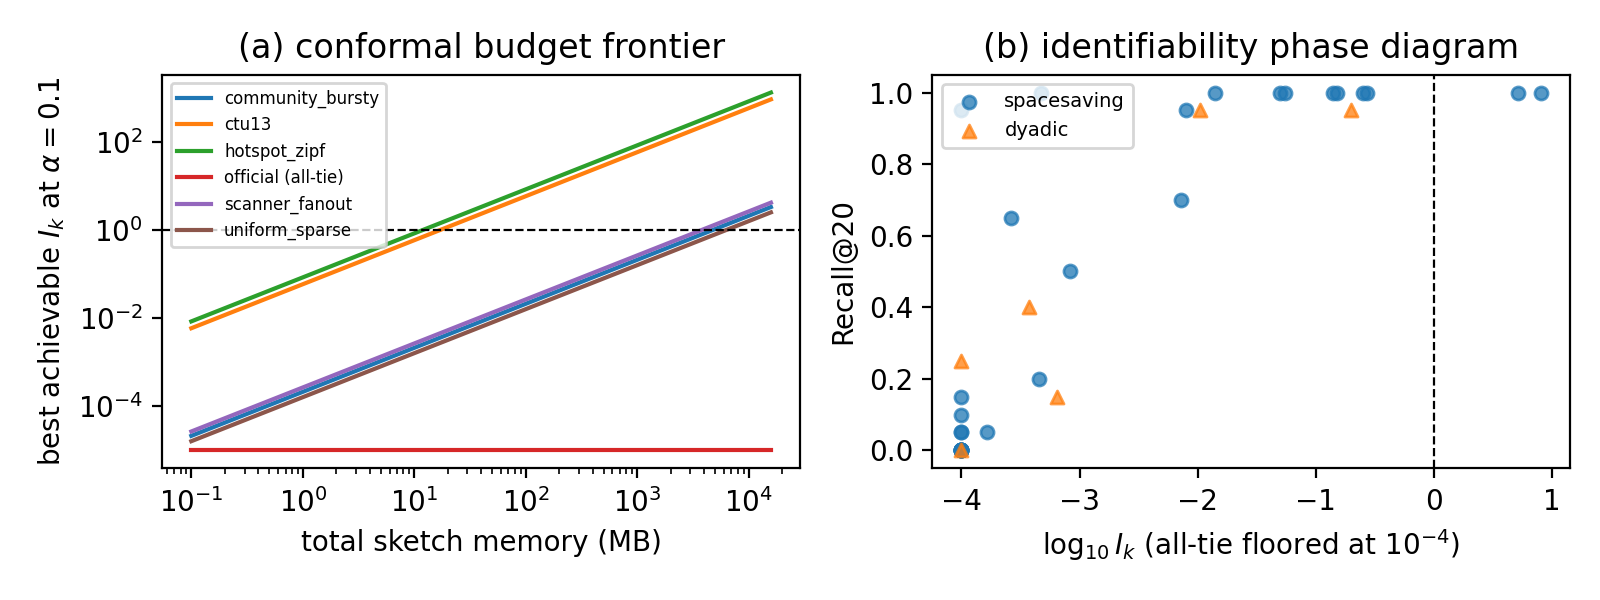
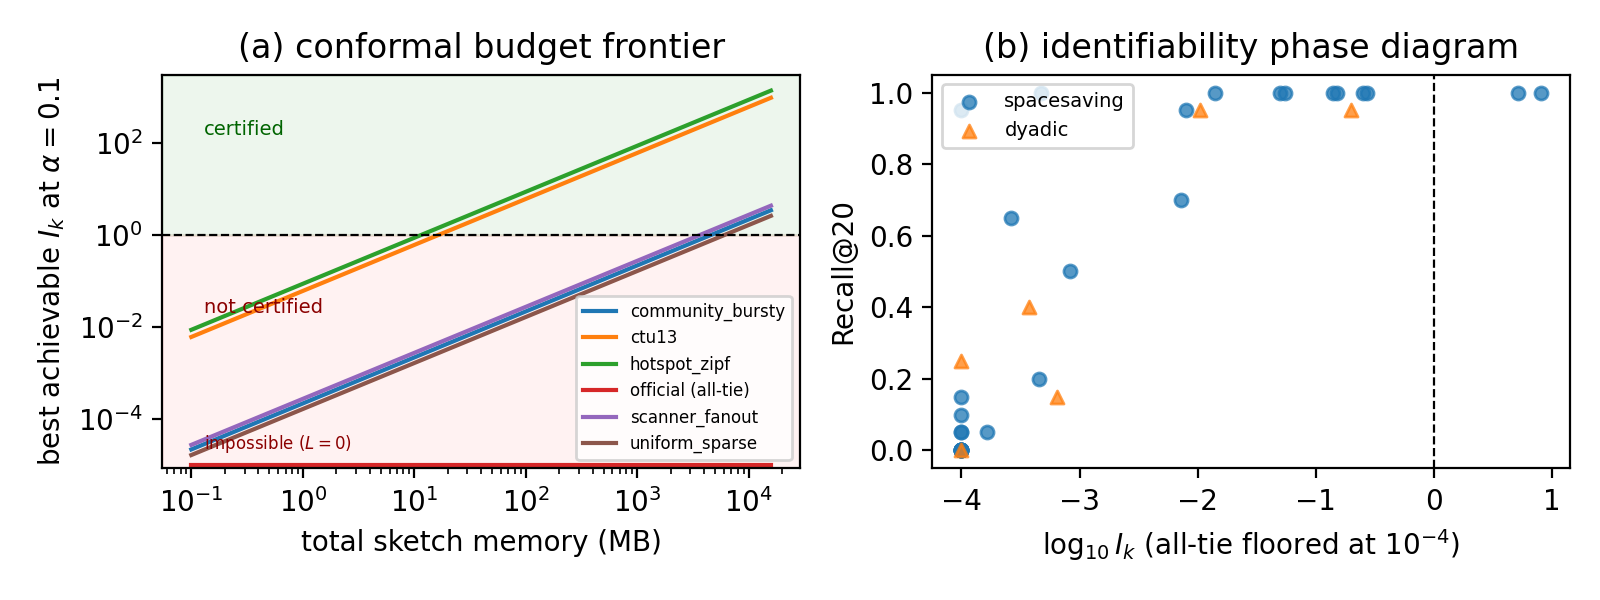
paper: narrative refactor per senior-reviewer advice — unidentifiability first, three contributions, I_k as organizing principle
- Abstract opens with the conceptual shift: 'Some traffic streams are
  fundamentally unidentifiable' + explicit old/new boundary ('existing
  sketches estimate; we ask whether identifiable at all').
- Introduction restructured: problem -> why estimators are insufficient ->
  three contributions exactly (identifiability index, conformal screens,
  budget pricing); router/GraphBLAS/toolkit demoted to deployment and
  evidence; phase-diagram soundness sentence kept.
- Sec IV retitled 'Top-k Identifiability and its Certificates' with a
  roadmap sentence deriving everything from I_k; gap-share conformity
  score justified (pivot of the decision inequality, deployment-
  observable, monotone-equivalent alternatives); Proposition 2 added:
  pricing objective strictly convex on its domain (convex-decreasing o
  concave), unique optimum, price monotone in L — verified numerically
  in tests.
- Router reframed as 'Deployment: the certified router'; Algorithm 2
  naming dropped.
- Related work: UnivMon + ElasticSketch cited with the orthogonality
  sentence; 'toolkit' framing swept to 'certification framework
  implemented on commodity hardware'.
- Figure panel (a) gains certified / not-certified / impossible bands.
- Six pages; 36 tests.

diff --git a/paper/main.tex b/paper/main.tex
@@ -18,21 +18,18 @@ qifan\[email redacted]}
 \maketitle
 
 \begin{abstract}
-The MIT/IEEE/Amazon GraphChallenge Anonymized Network Sensing track asks participants to construct and analyze anonymized source-to-destination traffic matrices from packet-derived data. We present a commodity-CPU toolkit whose core method is certified, memory-priced identifiability for sketch-based heavy-hitter sensing: decide whether top-$k$ heavy hitters are identifiable under a sketch memory budget; if so certify it, and if not, price the memory required or declare the task unidentifiable. The method builds on an empirical finding with a sparse-recovery explanation -- candidate-tracking capacity, not Count-Min width, bounds discovery on diffuse traffic, a gradient two decoder families reproduce -- and on \emph{conformal identifiability screens}: window-level calibration lower-bounds future ranking gaps under exchangeability, replacing single-prefix representativeness with finite-sample marginal coverage (adaptive conformal inference empirically restores target miscoverage under the tested drift settings). The pricing algorithm refuses a 655~KB budget a single-prefix screen had accepted, prices certification at 11.7~MB on a synthetic hotspot regime and 16.8~MB on real CTU-13 traffic -- with measured recall 1.0 at the priced budgets -- and declares the all-tie official Random PCAP unidentifiable, where a budget-matched identifiability-aware recall replaces a misleading zero. A certified router composes these components into one operational decision per stream: exact path, sketch certification with its price, backend, and safe fallbacks, abstaining when its signals disagree. We validate against the official challenge products: 40{,}000{,}000 packets parsed in seconds and official GraphBLAS matrices reproduced exactly (64 of 64 windows). The contribution is not full-capture throughput, but a reproducible bridge between official GraphChallenge materials and certified commodity sparse-matrix experimentation.
+Some traffic streams are fundamentally unidentifiable: when aggregated edge weights tie at the top-$k$ boundary, no sketch of any width can answer strict top-$k$ queries. Existing sketches estimate heavy hitters; we ask whether heavy hitters are identifiable at all under a given memory budget -- certifying it when they are, pricing the memory required when they are not yet, and declaring impossibility when they never can be. The framework, developed for GraphChallenge Anonymized Network Sensing and implemented on commodity hardware, rests on three contributions: (1) a \emph{top-$k$ identifiability index} $I_k$ that unifies traffic shape, Count-Min width, and candidate capacity into one certifying quantity -- explaining, via a sparse-recovery reading, why capacity rather than width bounds discovery on diffuse traffic, a gradient two decoder families reproduce; (2) \emph{conformal identifiability screens} that lower-bound future-window ranking gaps under exchangeability, replacing single-prefix representativeness with finite-sample marginal coverage; and (3) a \emph{budget-pricing algorithm}, provably convex and monotone, that outputs the memory-minimal certified sketch. Empirically, the conformal screen refuses a 655~KB budget a single-prefix screen had accepted; pricing returns 11.7~MB for a synthetic hotspot regime and 16.8~MB for real CTU-13 traffic (measured recall 1.0 at both), and declares the all-tie official Random PCAP unidentifiable, where an identifiability-aware recall replaces a misleading zero. A certified router deploys the framework as one decision per stream, validated against the official products: 40{,}000{,}000 packets parsed in seconds and official GraphBLAS matrices reproduced exactly (64 of 64 windows).
 \end{abstract}
 
 \section{Introduction}
-The Anonymized Network Sensing Graph Challenge frames packet-derived records as sparse source-to-destination traffic matrices for graph and linear-algebra analysis~\cite{anonymizedNetworkSensing2024}; submissions are paper-based and reward measured innovation across software, hardware, algorithms, and systems~\cite{graphchallenge2026,graphchallengeSubmit2026}. This submission targets a complementary point in that design space: not maximum throughput, but a reproducible, low-dependency baseline that makes traffic-shape dependence and approximation risk measurable -- and certifiable.
+The Anonymized Network Sensing Graph Challenge frames packet-derived records as sparse source-to-destination traffic matrices for graph and linear-algebra analysis~\cite{anonymizedNetworkSensing2024}; submissions are paper-based and reward measured innovation across software, hardware, algorithms, and systems~\cite{graphchallenge2026,graphchallengeSubmit2026}. Operators want sketches for this task -- bounded memory, one pass -- but sketches estimate weights; they do not say whether the top-$k$ \emph{identity} they report is meaningful. On diffuse traffic the answer degrades quietly, and on all-tie traffic (including the official Random PCAP product) it carries no information at any width. What is missing is not a better estimator but a decision: is top-$k$ identity recoverable here, under this memory budget, and if not, at what budget -- or never?
 
-To be explicit about what kind of paper this is: it is a diagnostics-and-certification contribution, not a performance record. The central empirical finding is that candidate-tracking capacity, not Count-Min sketch width, bounds heavy-hitter discovery on diffuse traffic; a sparse-recovery reading (width buys measurements, capacity buys decoding) explains it and predicts that it is decoder-independent, which we verify. The contributions are layered around that finding. The \emph{certification layer} -- the primary contribution -- turns traffic-shape measurements into guarantees: a sufficient-condition sketch-safety screen with a SpaceSaving retention bound that quantitatively predicts the required capacity, a single identifiability index $I_k$ with a budget-matched identifiability-aware recall metric, \emph{conformal identifiability screens} that replace the prefix-representativeness assumption with finite-sample marginal coverage over stream windows (adaptive conformal inference empirically restores target miscoverage under the tested drift settings), and a \emph{budget-pricing algorithm} that outputs the memory-minimal certified sketch configuration or declares the stream unidentifiable. The \emph{validation layer} supports the diagnostics with multi-regime synthetic benchmarks over equivalence-checked exact baselines, a real capture (CTU-13), official Random PCAP prefixes, an exact cross-check against the official GraphBLAS matrices, and a SuiteSparse:GraphBLAS baseline. The \emph{toolkit layer} -- capability, not headline -- adds an early-stream selector, time-bin anomaly summaries, format checks, and scripts regenerating every table and figure here. All components compose into a \emph{certified router} (Algorithm 2), and the central experimental artifact is the identifiability phase diagram of Figure~\ref{fig:pricing}: across sources, budgets, and two decoder families, no certified point ($I_k\geq1$) has low recall.
+This paper answers that question with three contributions, in increasing order of assumption strength. First, the \emph{top-$k$ identifiability index} $I_k$: one dimensionless quantity unifying the traffic's ranking gap with the two halves of the memory budget (Count-Min width buys measurement precision; candidate capacity buys decoding, in the sparse-recovery sense); $I_k\geq1$ certifies retention and separation, its retention bound predicts the capacity our sweeps confirm, and it induces a budget-matched recall metric. Second, \emph{conformal identifiability screens}: window-level calibration lower-bounds future ranking gaps under exchangeability, replacing single-prefix representativeness with finite-sample marginal coverage. Third, \emph{conformal budget pricing}: a provably convex, monotone optimization returning the memory-minimal certified sketch, a finite price, or \emph{impossible}. Everything else is deployment or evidence: a certified router, validation against the official challenge products, a real capture, two decoder families, and honestly reported failure cases. The central experimental artifact is Figure~\ref{fig:pricing}: across sources, budgets, and decoders, no certified point ($I_k\geq1$) has low recall.
 
 \section{Related Work and Positioning}
-GraphChallenge traffic-matrix tasks align with sparse linear algebra: GraphBLAS defines graph analytics as sparse matrix operations~\cite{buluc2017graphblas}, SuiteSparse:GraphBLAS implements them efficiently~\cite{davis2019suitesparse}, and reference-implementation work improves the official pipeline~\cite{voloshchuk2026improving}. Ours is complementary: a certification-first CPU toolkit, not a replacement for high-performance reference code.
+GraphChallenge traffic-matrix tasks align with sparse linear algebra: GraphBLAS defines graph analytics as sparse matrix operations~\cite{buluc2017graphblas}, SuiteSparse:GraphBLAS implements them efficiently~\cite{davis2019suitesparse}, and reference-implementation work improves the official pipeline~\cite{voloshchuk2026improving}. Ours is complementary: a certification framework implemented on intentionally unoptimized commodity hardware -- guarantees rather than a performance ceiling -- not a replacement for high-performance reference code.
 
-Network measurement has long used sketches and heavy-hitter algorithms for high-rate streams: Count-Min~\cite{cormode2005countmin}, Misra-Gries~\cite{misra1982finding}, SpaceSaving~\cite{metwally2005spacesaving}, and sketching systems~\cite{kumar2004sketching}. Sketches are linear measurements of a sparse vector, so heavy-hitter discovery is a sparse-recovery problem~\cite{gilbert2010sparse}. On the uncertainty side, conformal prediction gives distribution-free finite-sample guarantees~\cite{vovk2005algorithmic}, extends to drifting data~\cite{gibbs2021adaptive}, and has been applied to frequency estimation from sketches~\cite{sesia2022conformal}; we conformalize a different object -- the top-$k$ identifiability decision -- rather than per-query frequency intervals. Traffic-anomaly work shows feature distributions matter as much as volume~\cite{lakhina2005mining}.
-
-\subsection{Student Innovation}
-The student innovation is not a hardware record but a certification-first reproducibility package for commodity CPUs, intentionally not optimized with GPU, C++, or distributed GraphBLAS -- a baseline with guarantees rather than a performance ceiling.
+Network measurement has long used sketches and heavy-hitter algorithms for high-rate streams: Count-Min~\cite{cormode2005countmin}, Misra-Gries~\cite{misra1982finding}, SpaceSaving~\cite{metwally2005spacesaving}, and sketching systems~\cite{kumar2004sketching}; modern systems such as UnivMon~\cite{liu2016univmon} and ElasticSketch~\cite{yang2018elastic} optimize generality and throughput. Our question is orthogonal to all of these: not how to estimate faster or more generally, but whether the reported top-$k$ identity is recoverable at all under a budget. Sketches are linear measurements of a sparse vector, so heavy-hitter discovery is a sparse-recovery problem~\cite{gilbert2010sparse}. On the uncertainty side, conformal prediction gives distribution-free finite-sample guarantees~\cite{vovk2005algorithmic}, extends to drifting data~\cite{gibbs2021adaptive}, and has been applied to frequency estimation from sketches~\cite{sesia2022conformal}; we conformalize a different object -- the top-$k$ identifiability decision -- rather than per-query frequency intervals. Traffic-anomaly work shows feature distributions matter as much as volume~\cite{lakhina2005mining}.
 
 \section{Approach}
 The input is an anonymized edge table (source, destination, numeric weight such as bytes or packets). The pipeline factorizes labels, builds a SciPy coordinate matrix, converts to compressed sparse row, and sums duplicates, yielding $A \in \mathbb{R}^{m \times n}$ with $A_{ij}$ the aggregate traffic from source $i$ to destination $j$.
@@ -45,9 +42,9 @@ A deterministic synthetic generator provides four regimes (\texttt{hotspot\_zipf
 
 Finally, the online early-stream selector uses only a stream prefix to compute duplication rate, estimated nonzero growth, source and destination entropy, edge Gini, and top-share concentration, recommending pandas pre-aggregation when the prefix is concentrated and sparse direct construction otherwise, with fixed-candidate sketching marked unsafe for diffuse prefixes. Its thresholds are empirical and chosen only to separate the synthetic regimes used here; Section~\ref{sec:results} reports a real-traffic miss, which is why the certification layer, not this heuristic, is the primary contribution.
 
-\section{Conservative Screening Conditions}
+\section{Top-$k$ Identifiability and its Certificates}
 \label{sec:screen}
-The safety screen adds conservative sufficient conditions to the empirical selector rule; it is a prefix-computed screen, not a guarantee about the full stream. The candidate tracker is SpaceSaving with weighted updates~\cite{metwally2005spacesaving}: an arriving tracked key adds its weight; an untracked key replaces a minimum-count key and inherits that count plus its weight. By the standard SpaceSaving/Misra-Gries analysis~\cite{misra1982finding,metwally2005spacesaving}, every tracked count overestimates its key's true weight by at most $W/(c+1)$ for stream weight $W$ and capacity $c$, and every key with true weight above $W/(c+1)$ is tracked. Let $w_k$ be the $k$th largest aggregated prefix edge weight and $\Delta_k=w_k-w_{k+1}$ the ranking gap; we define top-$k$ identity only when $\Delta_k>0$, and the screen refuses when $\Delta_k=0$ (ties), as on the official prefix below.
+This section builds one quantity -- the identifiability index $I_k$ -- and derives everything else from it: the retention and ranking conditions are its numerator and denominator, certification is the event $I_k\geq1$, the evaluation metric restricts recall to the pairs $I_k$ can resolve, conformal calibration lower-bounds it on future windows, and pricing inverts it into memory. The screen is prefix-computed and conservative, not a guarantee about the full stream. The candidate tracker is SpaceSaving with weighted updates~\cite{metwally2005spacesaving}: an arriving tracked key adds its weight; an untracked key replaces a minimum-count key and inherits that count plus its weight. By the standard SpaceSaving/Misra-Gries analysis~\cite{misra1982finding,metwally2005spacesaving}, every tracked count overestimates its key's true weight by at most $W/(c+1)$ for stream weight $W$ and capacity $c$, and every key with true weight above $W/(c+1)$ is tracked. Let $w_k$ be the $k$th largest aggregated prefix edge weight and $\Delta_k=w_k-w_{k+1}$ the ranking gap; we define top-$k$ identity only when $\Delta_k>0$, and the screen refuses when $\Delta_k=0$ (ties), as on the official prefix below.
 
 The screen assumes: (A1) \emph{prefix representativeness} -- weight shares and rank order measured on the prefix carry over to the stream (checked empirically across eight disjoint official-capture segments in Section~\ref{sec:results}, but not guaranteed); (A2) Count-Min with width $m$, depth $d$ overestimates any queried weight by at most $\epsilon W$, $\epsilon=e/m$, with probability at least $1-e^{-d}$ per query~\cite{cormode2005countmin}. Under (A1)--(A2), three sufficient conditions follow. \emph{Retention}: $c\geq W/w_k-1$ ensures every true top-$k$ pair is tracked. \emph{Ranking}: $\Delta_k>2\epsilon W$ ensures Count-Min estimates preserve the top-$k$ boundary among tracked keys. \emph{Combined}: the implemented screen requires the stricter $\Delta_k>2(\epsilon W+W/(c+1))$, which additionally covers rankings read from tracker counts rather than sketch estimates. Failure of the screen does not prove sketch failure; satisfaction certifies top-$k$ retention and separation under the stated assumptions only.
 
@@ -61,15 +58,17 @@ so that $I_k \geq 1$ is exactly the combined screen condition. Because $w_k \geq
 The same error budget fixes the evaluation metric. With budget-matched tolerance $\gamma=2(\epsilon+1/(c{+}1))$, define the \emph{identifiable core} $H_k^\gamma=\{x\in\text{top-}k : (w_x-w_{k+1})/W>\gamma\}$ -- the top-$k$ pairs separated from the boundary by more than the budget's error resolution -- and \emph{IdentifiableRecall@}$k$ as recall restricted to $H_k^\gamma$, reporting \emph{not identifiable} when the core is empty rather than a misleading zero. By construction the core is empty exactly when the screen refuses, so metric and screen cannot disagree. Section~\ref{sec:results} tests the decoder-independence prediction directly by comparing SpaceSaving tracking against dyadic Count-Min tree descent~\cite{cormode2005countmin}. The dyadic decoder treats the key space as a binary tree: it maintains one Count-Min sketch per prefix length, queries estimates for dyadic intervals level by level, expands only the highest-mass intervals, and continues until reaching individual keys. Unlike SpaceSaving it stores no per-record candidates; its discovery budget is the number of interval expansions per level. It therefore provides an independent decoder family for testing whether diffuse-regime failure is an artifact of candidate tracking or intrinsic to the signal.
 
 \subsection{Conformal Identifiability Screens}
-The plug-in screen above trusts one prefix (A1). We remove that assumption with conformal prediction~\cite{vovk2005algorithmic}: split the stream into disjoint equal windows, treat them as exchangeable, and score each by its gap share $S_i=\Delta_k^{(i)}/W^{(i)}$. With $n$ calibration windows and $r=\lfloor\alpha(n{+}1)\rfloor\geq 1$, let $L$ be the $r$th smallest calibration score; the order-statistic argument gives $\Pr[S_{\mathrm{future}} < L] \leq \alpha$.
+The plug-in screen above trusts one prefix (A1). We remove that assumption with conformal prediction~\cite{vovk2005algorithmic}: split the stream into disjoint equal windows, treat them as exchangeable, and score each by its gap share $S_i=\Delta_k^{(i)}/W^{(i)}$. The gap share is the natural conformity score, not one choice among many: it is the data-dependent side of the certification inequality, so conformalizing it conformalizes the decision itself (any monotone transform gives the same order statistics and decisions); unlike recall or overlap it needs no deployment-time ground truth; and margin or rank-stability scores are monotone in it at fixed budget. With $n$ calibration windows and $r=\lfloor\alpha(n{+}1)\rfloor\geq 1$, let $L$ be the $r$th smallest calibration score; the order-statistic argument gives $\Pr[S_{\mathrm{future}} < L] \leq \alpha$.
 
-\noindent\emph{Proposition 1 (window-level identifiability screen).} Assume the calibration and future window scores are exchangeable, and condition on the Count-Min per-query error event of (A2). If $L > 2(\epsilon + 1/(c{+}1))$, then with probability at least $1-\alpha$ over the future window, its true top-$k$ pairs are all retained by the tracker and correctly separated from non-top-$k$ pairs under the budget (width $m$, depth $d$, capacity $c$). \emph{Proof sketch:} on the event $S_{\mathrm{future}}\geq L$, the combined sufficient condition of the previous subsection holds for that window. When rankings are read from tracker counts, the separation argument is deterministic given retention, since SpaceSaving errors are one-sided and bounded by $W/(c{+}1)$ without randomness; ranking by Count-Min estimates instead pays an additional failure probability of at most $e^{-d}$ per queried candidate, handled by a union bound and driven down geometrically in the depth $d$. The guarantee is marginal over future windows; it does not imply conditional validity for every traffic regime or time period.
+\noindent\emph{Proposition 1 (window-level identifiability screen).} Assume the calibration and future window scores are exchangeable, and condition on the Count-Min per-query error event of (A2). If $L > 2(\epsilon + 1/(c{+}1))$, then with probability at least $1-\alpha$ over the future window, its true top-$k$ pairs are all retained by the tracker and correctly separated from non-top-$k$ pairs under the budget (width $m$, depth $d$, capacity $c$). \emph{Proof sketch:} on the event $S_{\mathrm{future}}\geq L$, the combined sufficient condition holds for that window. Rankings read from tracker counts are deterministic given retention (SpaceSaving errors are one-sided, bounded by $W/(c{+}1)$, with no randomness); ranking by Count-Min estimates pays at most $e^{-d}$ per queried candidate via a union bound. The guarantee is marginal over future windows, not conditional per regime or period.
 
 Because drift breaks exchangeability, we also run adaptive conformal inference~\cite{gibbs2021adaptive}, which adjusts $\alpha_t$ online; its long-run tracking is empirical, not a finite-sample guarantee. Unlike conformal frequency estimation over sketches~\cite{sesia2022conformal}, which calibrates per-query frequency intervals, the conformalized object here is the \emph{identifiability decision itself}.
 
 \noindent\textbf{Algorithm 1 (conformal budget pricing).} The screen inverts into a pricing method: given $L$, target level $\alpha$, depth $d$, and per-entry costs, output the memory-minimal budget that certifies future-window top-$k$ identifiability, or \emph{impossible} when $L=0$. For fixed width $m$ the minimal capacity is closed-form, $c_{\min}(m)=\lceil 1/(L/2-e/m)\rceil-1$, valid when $m>2e/L$; pricing is therefore a one-dimensional search minimizing $M(m,c)=d\,m\,b_{\mathrm{ctr}}+c\,b_{\mathrm{cand}}$ over $m$ (we use $b_{\mathrm{ctr}}=8$, $b_{\mathrm{cand}}=32$ bytes). The output is an exchangeability-qualified conformal price: the memory at which sketch-based top-$k$ answers become certifiable for this stream, marginal over future windows.
 
-\noindent\textbf{Algorithm 2 (certified router).} The components compose into one operational decision per stream, given a prefix, a memory budget, target $k$, and mode. The router (i) picks the exact path from two fallible signals -- the shape heuristic and direct prefix profiling -- committing only when they agree and abstaining to the safe sparse default otherwise; (ii) runs Algorithm 1 to classify sketching as \emph{certifiable within budget}, \emph{certifiable over budget}, \emph{not worth it}, or \emph{unidentifiable} ($L=0$); (iii) picks GraphBLAS hypersparse when labels live natively in the $2^{32}$ space, compact SciPy CSR otherwise; and (iv) emits online and batch routes with reasons. Abstention is deliberate: the heuristic misses on CTU-13 and profiling misses on hotspot at full scale, but they disagree exactly there, and the safe default pays a bounded $1.28\times$ instead of a $2\times$ wrong-signal penalty.
+\noindent\emph{Proposition 2 (pricing is well-posed).} On $m>2e/L$ the objective $M(m)=d\,b_{\mathrm{ctr}}\,m+b_{\mathrm{cand}}/(L/2-e/m)$ is strictly convex -- the second term is a convex decreasing function composed with a concave one -- so the search attains the unique global optimum; and the resulting price is non-increasing in $L$, since a larger bound enlarges the feasible set and loosens $c_{\min}(m)$ pointwise. Verified numerically over the experimental range in the repository tests.
+
+\noindent\textbf{Deployment: the certified router.} Given a prefix, budget, target $k$, and mode, the router (i) picks the exact path from two fallible signals -- shape heuristic and direct prefix profiling -- committing only when they agree, abstaining to the safe sparse default otherwise; (ii) classifies sketching via Algorithm 1 as \emph{certifiable within budget}, \emph{over budget}, \emph{not worth it}, or \emph{unidentifiable}; (iii) picks GraphBLAS hypersparse for native $2^{32}$ labels, SciPy CSR otherwise; (iv) emits routes with reasons. Abstention is deliberate: the heuristic misses on CTU-13 and profiling misses on hotspot at full scale, but they disagree exactly there, and the safe default pays a bounded $1.28\times$ instead of a $2\times$ wrong-signal penalty.
 
 \section{Experiments}
 \label{sec:experiments}
@@ -115,9 +114,9 @@ The online method-selector experiment: from the first 50,000 records the selecto
 The plug-in safety screen of Section~\ref{sec:screen}, on the same 50,000-record prefixes: under width 8{,}192 and capacity 512 no regime satisfies the sufficient conditions, while width 16{,}384 with capacity 5{,}000 (a 655~KB sketch) certifies hotspot with margin $+5.6\times10^{-5}$. Notably, the retention bound predicts the capacity scale the empirical sweep independently confirms: $c_{\min}\approx2{,}000$ for community (recall 0.65 at 2{,}048, 1.00 at 8{,}192) and $c_{\min}\approx5{,}800$ for scanner (0.95 only at 8{,}192). The screen tells an operator when sketch safety is not proven and what budget would prove it -- under Assumption A1, which the conformal analysis below revisits.
 
 \subsection{Official-Dataset Validation}
-The candidate-capacity finding and the online diagnostics were checked on the official challenge data products. Table~\ref{tab:real} summarizes the 5{,}000{,}000-packet prefix of the official Random PCAP -- an extreme diffuse regime: every packet a unique pair, 4{,}997{,}115 unique anonymized sources, every packet a 40-byte header-only record with equal weights, consistent with the organizers' randomized generation. From the first 50{,}000 records the selector recommends sparse direct and flags fixed-candidate sketching unsafe; the measured end-to-end winner agrees (2.52~s versus 5.15~s pandas). The safety screen withholds certification because the top-$k$ ranking gap is exactly zero. The capacity sweep confirms the diagnosis from the other direction: strict-identity top-20 recall is zero at every capacity, tie-aware recall is trivially 1.0, and IdentifiableRecall@20 reports \emph{not identifiable} (empty core) -- replacing a misleading zero with the correct statement that top-$k$ identity carries no information in an all-tie regime. Unlike the synthetic diffuse regimes, where capacity rescues recall because heavy hitters exist, here sketch-based top-$k$ is ill-posed. Eight disjoint 5{,}000{,}000-packet segments of the 40{,}000{,}000-packet fetch yield identical diagnoses.
+Table~\ref{tab:real} summarizes the 5{,}000{,}000-packet prefix of the official Random PCAP -- an extreme diffuse regime: every packet a unique pair, 4{,}997{,}115 unique anonymized sources, every packet a 40-byte header-only record with equal weights, consistent with the organizers' randomized generation. From the first 50{,}000 records the selector recommends sparse direct and flags fixed-candidate sketching unsafe; the measured winner agrees (2.52~s versus 5.15~s pandas). The screen withholds certification: the ranking gap is exactly zero. The capacity sweep confirms the diagnosis from the other direction: strict-identity top-20 recall is zero at every capacity, tie-aware recall is trivially 1.0, and IdentifiableRecall@20 reports \emph{not identifiable} (empty core) -- replacing a misleading zero with the correct statement that top-$k$ identity carries no information in an all-tie regime. Unlike the synthetic diffuse regimes, where capacity rescues recall because heavy hitters exist, here sketch-based top-$k$ is ill-posed. Eight disjoint 5{,}000{,}000-packet segments of the 40{,}000{,}000-packet fetch yield identical diagnoses.
 
-Two further checks tie the toolkit to the official GraphBLAS ecosystem. First, an exact cross-check: the official product stores one $2^{32}\times2^{32}$ UINT32 matrix per $2^{17}$-packet window; deserializing the first $2^{23}$-packet segment (64 matrices) and comparing coordinate sets against our pcap-parsed edge table matches exactly in 64 of 64 windows (8{,}388{,}608 pairs, after the bijective host/network byte-order relabeling) -- our parser reproduces the official matrix pipeline without running the official code. Second, a SuiteSparse:GraphBLAS baseline on the same 5{,}000{,}000 edges, decomposed to avoid ambiguity: label factorization 2.1~s (shared by both compact paths; it dominates the end-to-end times in Table~\ref{tab:real}); SciPy COO$\to$CSR kernel 0.106~s; GraphBLAS \texttt{from\_coo} kernel 0.086--0.088~s; and GraphBLAS \texttt{from\_coo} in the native $2^{32}\times2^{32}$ hypersparse space, 0.086~s end to end with no factorization -- an architectural advantage SciPy CSR cannot replicate, its row-pointer array alone needing tens of gigabytes.
+Two further checks tie the framework to the official GraphBLAS ecosystem. First, an exact cross-check: the official product stores one $2^{32}\times2^{32}$ UINT32 matrix per $2^{17}$-packet window; deserializing the first $2^{23}$-packet segment (64 matrices) and comparing coordinate sets against our pcap-parsed edge table matches exactly in 64 of 64 windows (8{,}388{,}608 pairs, after the bijective host/network byte-order relabeling) -- our parser reproduces the official matrix pipeline without running the official code. Second, a SuiteSparse:GraphBLAS baseline on the same 5{,}000{,}000 edges, decomposed to avoid ambiguity: label factorization 2.1~s (shared by both compact paths; it dominates the end-to-end times in Table~\ref{tab:real}); SciPy COO$\to$CSR kernel 0.106~s; GraphBLAS \texttt{from\_coo} kernel 0.086--0.088~s; and GraphBLAS \texttt{from\_coo} in the native $2^{32}\times2^{32}$ hypersparse space, 0.086~s end to end with no factorization -- an architectural advantage SciPy CSR cannot replicate, its row-pointer array alone needing tens of gigabytes.
 
 \begin{table}[t]
 \centering
@@ -137,18 +136,18 @@ Identifiable core $H_{20}^{\gamma}$ & empty (not identifiable) \\
 \end{tabular}
 \end{table}
 
-Compatibility checks pass throughout: a Matrix Market round-trip exactly matches the edge-table matrix, and a local implementation of GraphChallenge-paper-style formulas agrees on core scalars for a 100,000-edge sample (repository CSVs) -- not the full official reference repository, but a check that quantities agree before performance claims are interpreted.
+Compatibility checks pass throughout: a Matrix Market round-trip exactly matches the edge-table matrix, and a local implementation of GraphChallenge-paper-style formulas agrees on core scalars for a 100,000-edge sample (repository CSVs).
 
 \subsection{Real Traffic, Conformal Screens, and Decoders}
 We add CTU-13 scenario 42~\cite{garcia2014empirical} (2{,}824{,}636 bidirectional flows, 697{,}518 unique pairs, duplication 0.75, addresses relabeled to opaque integers) and report three experiments closing the loop on A1 and the sparse-recovery view.
 
-First, honesty about the heuristic selector: on CTU-13 its concentration features (edge Gini 0.98) trigger the pandas recommendation, but sparse direct measures faster (0.087~s versus 0.175~s) -- the selector's first miss. This negative result is useful: it separates heuristic method selection from certified identifiability, and Algorithm 2 converts it into abstention rather than error. The sketch-safety side is unaffected: top-20 recall is 0.95 at capacity 64 and 1.00 from 512 up, at median relative error $1.6\times10^{-4}$. Under the budget-matched metric, CTU-13's identifiable core holds 14 of the top 20 and hotspot's holds 10, all recovered (IdentifiableRecall 1.00); the diffuse regimes have empty cores at the default budget, consistent with the screen by construction.
+First, honesty about the heuristic selector: on CTU-13 its concentration features (edge Gini 0.98) trigger the pandas recommendation, but sparse direct measures faster (0.087~s versus 0.175~s) -- the selector's first miss. This negative result is useful: it separates heuristic method selection from certified identifiability, and the router converts it into abstention rather than error. The sketch-safety side is unaffected: top-20 recall is 0.95 at capacity 64 and 1.00 from 512 up, at median relative error $1.6\times10^{-4}$. Under the budget-matched metric, CTU-13's identifiable core holds 14 of the top 20 and hotspot's holds 10, all recovered (IdentifiableRecall 1.00); the diffuse regimes have empty cores at the default budget, consistent with the screen by construction.
 
 Second, conformal screens and budget pricing (Table~\ref{tab:conformal}, Figure~\ref{fig:pricing}(a)). Calibrating on the first half of each stream's 50{,}000-record windows and testing on the rest shows why one prefix should not be trusted: the hotspot window-level gap varies by two orders of magnitude, fixed calibration under-covers on drifting streams (empirical coverage as low as 0.82 at target 0.90), and adaptive conformal inference restores realized miscoverage to 0.10--0.11 on every tested source. The conformal screen consequently \emph{refuses} the 655~KB budget the plug-in screen had certified for hotspot -- the first window was optimistic. Algorithm 1 then prices exchangeability-qualified certification: 11.7~MB for hotspot, 16.8~MB for CTU-13, 3.7--6.2~GB for the diffuse regimes (finite but far beyond sketching's useful range, so exact construction is the right tool there), and \emph{impossible} for the all-tie official product. Running the tracker at the priced budgets yields measured Recall@20 of 1.00 on both hotspot and CTU-13, so the certified region is not vacuous. Removing A1 is not free; Algorithm 1 reports its memory price.
 
 Third, decoder independence. Replacing per-record SpaceSaving tracking with the dyadic descent of Section~\ref{sec:screen} reproduces the same identifiability gradient: recall (tracker/dyadic) is 1.00/0.95 on hotspot, 1.00/0.95 on CTU-13, degraded on the diffuse regimes (0.15/0.40, 0.05/0.25, 0.05/0.15), and exactly 0.00/0.00 on the all-tie official product. Discovery is bounded by signal structure, not data-structure choice, as the sparse-recovery view predicts.
 
-Finally, Table~\ref{tab:router} shows Algorithm 2's end-to-end decisions at a 64~MB budget. The two abstentions are the signal-disagreement cases: on CTU-13 abstention avoids the heuristic's $2\times$ mistake; on hotspot it pays a bounded $1.28\times$. Sketching is routed only where certifiable and worth its price; the all-tie official product is declared unidentifiable and served by exact construction on the hypersparse backend.
+Finally, Table~\ref{tab:router} shows the router's end-to-end decisions at a 64~MB budget. The two abstentions are the signal-disagreement cases: on CTU-13 abstention avoids the heuristic's $2\times$ mistake; on hotspot it pays a bounded $1.28\times$. Sketching is routed only where certifiable and worth its price; the all-tie official product is declared unidentifiable and served by exact construction on the hypersparse backend.
 
 \begin{table}[t]
 \centering
@@ -170,11 +169,11 @@ Official (all-tie) & 100 & $0$ & .00 & .00 & no & impossible \\
 \end{tabular}
 \end{table}
 
-Finally, the time-bin capability: in all four controlled scenarios (volume burst, scanner fanout, concentrated destination, distributed low-rate scan), the injected bin is the top-ranked bin by the robust anomaly score, and a different feature explains each event type. We report this as a toolkit capability rather than a core contribution; per-scenario curves and numbers are in the repository figures and CSVs.
+Finally, the time-bin capability: in all four controlled scenarios (volume burst, scanner fanout, concentrated destination, distributed low-rate scan) the injected bin ranks first by the robust anomaly score, a different feature explaining each event type; per-scenario curves are in the repository. This is capability, not a core contribution.
 
 \begin{table}[t]
 \centering
-\caption{Certified-router output (Algorithm 2) per source: exact path from agreeing signals or abstention, sketch decision with the Algorithm 1 price, and the batch route. Online routes use the certified sketch where within budget (64 MB) and exact per-window construction otherwise.}
+\caption{Certified-router output per source (the framework deployed as one decision per stream): exact path from agreeing signals or abstention, sketch decision with the Algorithm 1 price, and the batch route. Online routes use the certified sketch where within budget (64 MB) and exact per-window construction otherwise.}
 \label{tab:router}
 \scriptsize
 \setlength{\tabcolsep}{2pt}
@@ -199,7 +198,7 @@ This submission deliberately avoids overclaiming. The official-data experiments 
 The complete repository -- source, tests, Makefile, result CSVs, and provenance manifests with checksums behind every table and figure -- is available at \url{https://github.com/QifanChen62/graphsense-network-sensing}; \texttt{make paper-numbers} regenerates every table and figure.
 
 \section{Conclusion}
-We presented a reproducible toolkit for anonymized network sensing whose core is certified, memory-priced identifiability, composed by a certified router into one operational decision per stream: a sufficient-condition safety screen with a SpaceSaving retention bound, a top-$k$ identifiability index with a budget-matched recall metric, conformal identifiability screens, and a pricing algorithm that replaces the prefix-representativeness assumption with exchangeability-qualified marginal coverage at a measured memory price -- 11.7~MB for a synthetic hotspot regime, 16.8~MB for real CTU-13 traffic (both with measured recall 1.0 at the priced budgets), gigabytes for diffuse regimes where exact construction is the right tool, and \emph{impossible} for the all-tie official product. The central empirical result, explained by the sparse-recovery view and reproduced by two decoder families, is that candidate capacity rather than sketch width bounds heavy-hitter discovery on diffuse traffic, at the scale the retention bound predicts. Reported failure cases -- a selector miss on real traffic, fixed-calibration under-coverage under drift -- are part of the contribution: they make approximation risk visible and priced. The package is a bridge between official GraphChallenge materials and certified commodity-CPU experimentation.
+We presented a certification framework that decides whether sketch-based top-$k$ heavy hitters are identifiable at all: the index $I_k$ certifies, conformal screens replace single-prefix trust with exchangeability-qualified marginal coverage, and convex pricing returns the memory-minimal certified budget -- 11.7~MB for a synthetic hotspot regime, 16.8~MB for real CTU-13 traffic (measured recall 1.0 at both priced budgets), gigabytes for diffuse regimes where exact construction is the right tool, and \emph{impossible} for the all-tie official product. The central empirical result, explained by the sparse-recovery view and reproduced by two decoder families, is that candidate capacity rather than sketch width bounds diffuse heavy-hitter discovery, at the scale the retention bound predicts. Reported failure cases -- a selector miss on real traffic, fixed-calibration under-coverage under drift -- make approximation risk visible and priced. The framework, implemented reproducibly on commodity hardware and deployed by a certified router, bridges official GraphChallenge materials and certified sparse-matrix experimentation.
 
 \bibliographystyle{IEEEtran}
 \bibliography{references}

diff --git a/tests/test_pipeline.py b/tests/test_pipeline.py
@@ -580,6 +580,29 @@ class PipelineTest(unittest.TestCase):
         over = route(0.01, 0.03, gap_lower_bound=4.4e-5, memory_budget_bytes=1_000_000)
         self.assertEqual(over.sketch_decision, "certifiable_over_budget")
 
+    def test_pricing_convexity_and_monotonicity(self) -> None:
+        import math
+
+        from graphsense.pricing import price_budget
+
+        # M(m) = d*m*b_ctr + b_cand/(L/2 - e/m) is strictly convex on m > 2e/L
+        # (convex-decreasing composed with concave); verify via second differences.
+        L = 4.4e-5
+        floor = 2 * math.e / L
+
+        def cost(m: float) -> float:
+            return 5 * m * 8 + 32 / (L / 2 - math.e / m)
+
+        grid = [floor * (1 + 0.01 * i) for i in range(1, 200)]
+        values = [cost(m) for m in grid]
+        seconds = [values[i + 1] - 2 * values[i] + values[i - 1] for i in range(1, len(values) - 1)]
+        self.assertGreater(min(seconds), 0)
+
+        # Price is non-increasing in the conformal bound L.
+        prices = [price_budget(bound).total_bytes for bound in (1e-7, 1e-6, 1e-5, 4.4e-5, 1e-3)]
+        for earlier, later in zip(prices, prices[1:]):
+            self.assertGreaterEqual(earlier, later)
+
     def test_certified_selector_cli_writes_conservative_certificate(self) -> None:
         with tempfile.TemporaryDirectory() as tmpdir:
             output = Path(tmpdir) / "certified_selector.csv"

diff --git a/scripts/make_pricing_phase_figure.py b/scripts/make_pricing_phase_figure.py
@@ -158,10 +158,17 @@ def main() -> None:
     left.axhline(1.0, color="black", linestyle="--", linewidth=0.8)
     left.set_xscale("log")
     left.set_yscale("log")
+    ymin, ymax = I_K_FLOOR / 12, 3e3
+    left.set_ylim(ymin, ymax)
+    left.axhspan(1.0, ymax, color="green", alpha=0.07)
+    left.axhspan(ymin, 1.0, color="red", alpha=0.05)
+    left.text(0.13, 1.5e2, "certified", fontsize=7, color="darkgreen")
+    left.text(0.13, 2e-2, "not certified", fontsize=7, color="darkred")
+    left.text(0.13, 2.2e-5, "impossible ($L=0$)", fontsize=6, color="darkred")
     left.set_xlabel("total sketch memory (MB)")
     left.set_ylabel("best achievable $I_k$ at $\\alpha=0.1$")
     left.set_title("(a) conformal budget frontier")
-    left.legend(fontsize=6, loc="upper left")
+    left.legend(fontsize=6, loc="lower right")
 
     markers = {"spacesaving": "o", "dyadic": "^"}
     for decoder, marker in markers.items():